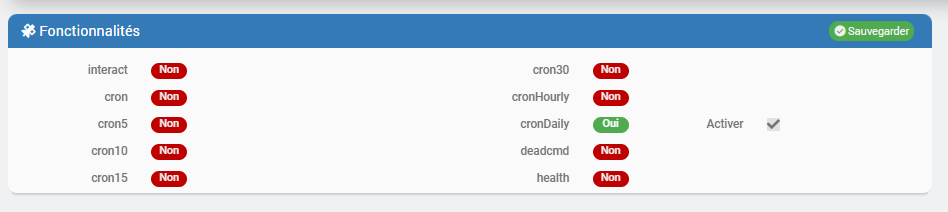
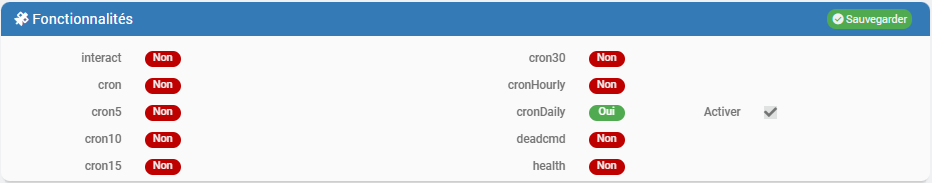
Doc : captures configuration, fonctionnalites et menu du bouton

diff --git a/docs/fr_FR/index.md b/docs/fr_FR/index.md
@@ -52,6 +52,7 @@ Le plugin s'installe depuis GitHub (il n'est pas encore sur le Market Jeedom).
 
 ### Section « Général »
 
+- **Version du plugin** : version installée (Jeedom n'affiche qu'un numéro de commit pour une installation depuis GitHub).
 - **Topic racine des boutons** : `m5dial`. Les boutons publient sur `m5dial/<nom>/status` et `m5dial/<nom>/info` et reçoivent leur configuration sur `m5dial/<nom>/config`.
 - Le plugin s'abonne automatiquement à ce topic auprès de MQTT Manager.
 
@@ -196,6 +197,8 @@ Les informations sont rafraîchies toutes les 5 minutes et à chaque reconnexion
 Cochez les écrans à afficher sur le bouton, puis choisissez les commandes Jeedom avec le sélecteur de commandes.
 
 **Ordre du menu** : le cadre **Menu du bouton**, en haut de l'onglet, liste les écrans cochés. Les flèches ▲▼ changent leur ordre sur le bouton ; le premier est affiché au démarrage. **Réglages** reste toujours en dernier. (Firmware 2.6 ou plus.)
+
+![Menu du bouton](../images/menu-bouton.png)
 
 ![Onglet Écrans du bouton](../images/ecrans.png)
 
